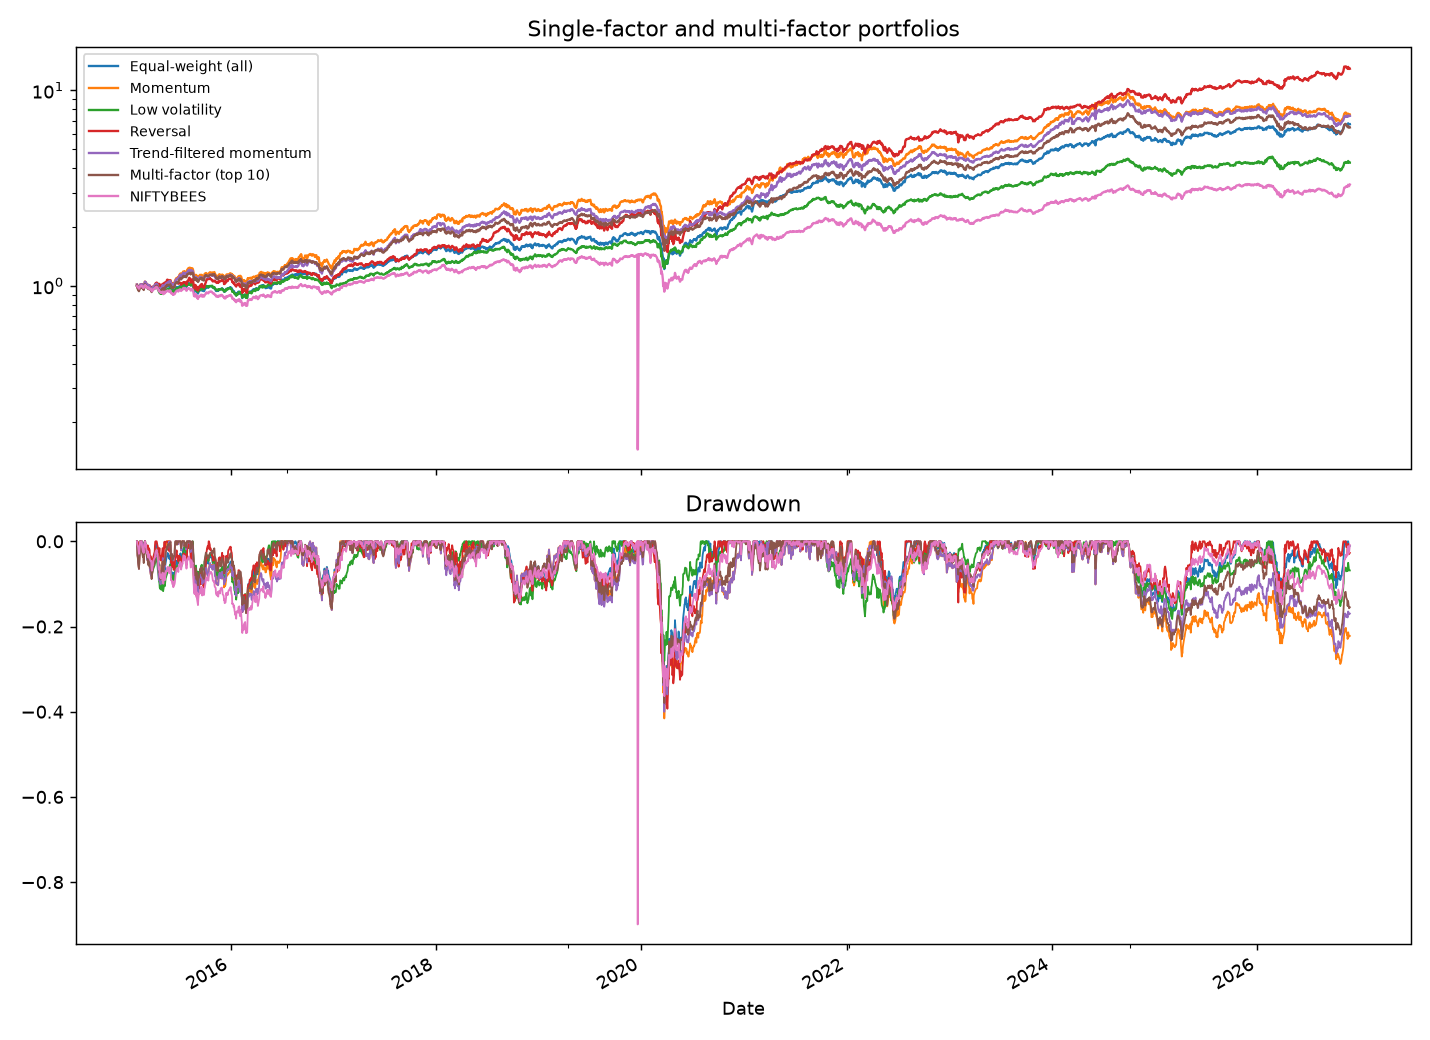
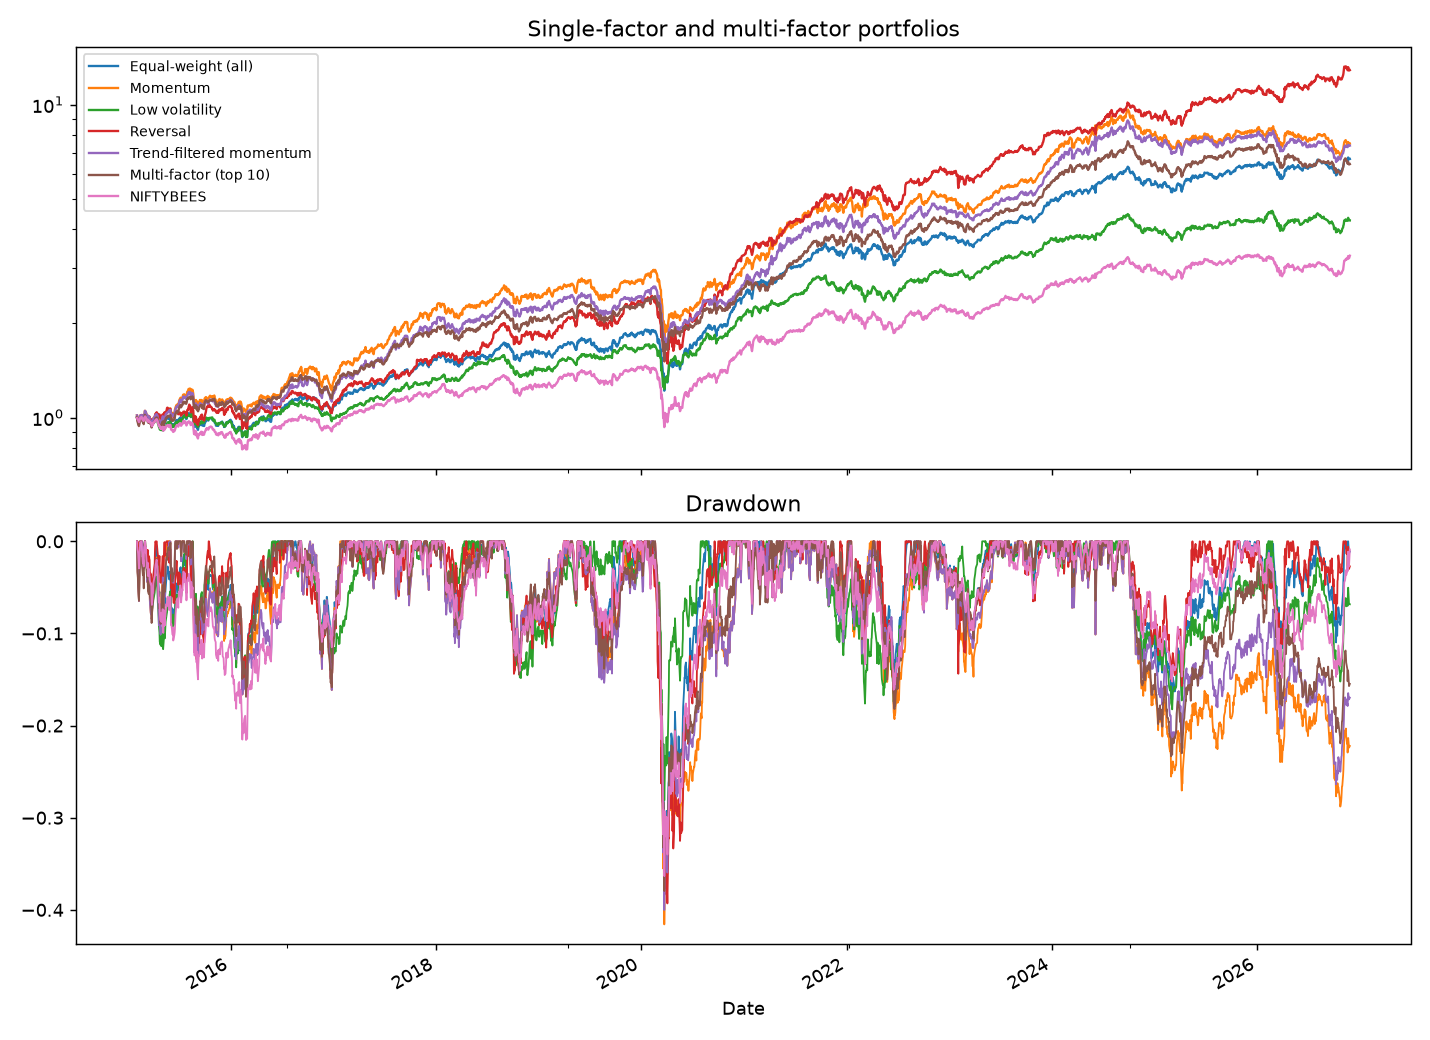
Add files via upload

diff --git a/results/REPORT.md b/results/REPORT.md
@@ -20,7 +20,7 @@
 | MF-20 RiskParity |17.4%|15.1%|0.74|1.02|-33.7%|0.52|822.3%|
 | MF-20 HRP |16.7%|14.8%|0.71|0.99|-32.9%|0.51|928.7%|
 | MF-20 HRP + risk overlay |13.1%|12.5%|0.57|0.77|-24.7%|0.53|928.7%|
-| NIFTYBEES |10.9%|265.4%|0.28|2.63|-89.9%|0.12||
+| NIFTYBEES |10.8%|14.7%|0.37|0.50|-36.3%|0.30||
 
 ![single factors](figures/01_single_factors.png)
 
@@ -35,7 +35,7 @@
 | MF-20 RiskParity |17.4%|15.1%|0.74|-33.7%|0.52|
 | MF-20 HRP |16.7%|14.8%|0.71|-32.9%|0.51|
 | MF-20 HRP + risk overlay |13.1%|12.5%|0.57|-24.7%|0.53|
-| NIFTYBEES |10.9%|265.4%|0.28|-89.9%|0.12|
+| NIFTYBEES |10.8%|14.7%|0.37|-36.3%|0.30|
 
 ![construction methods](figures/02_construction_methods.png)
 
@@ -44,18 +44,18 @@
 
 | |Alpha (ann.)|Alpha t-stat|Beta|Tracking error|Information ratio|Up capture|Down capture|
 |---|---|---|---|---|---|---|---|
-| Equal-weight (all) |11.5%|2.40|0.00|265.1%|-0.24|0.56|0.88|
-| Momentum |13.1%|2.27|0.00|265.2%|-0.23|0.59|0.93|
-| Low volatility |7.3%|1.72|0.00|265.2%|-0.25|0.43|0.68|
-| Reversal |17.8%|3.15|0.00|265.2%|-0.22|0.61|0.91|
-| Trend-filtered momentum |12.9%|2.30|0.00|265.2%|-0.23|0.56|0.88|
-| Multi-factor (top 10) |11.4%|2.18|0.00|265.1%|-0.24|0.53|0.84|
-| MF-20 EW |11.5%|2.41|0.00|265.1%|-0.24|0.53|0.83|
-| MF-20 MinVar |9.3%|2.18|0.00|265.1%|-0.25|0.44|0.68|
-| MF-20 MaxSharpe |8.4%|1.70|0.00|265.2%|-0.25|0.47|0.75|
-| MF-20 RiskParity |11.0%|2.42|0.00|265.1%|-0.24|0.50|0.78|
-| MF-20 HRP |10.3%|2.33|0.00|265.1%|-0.24|0.48|0.76|
-| MF-20 HRP + risk overlay |6.9%|1.80|0.00|265.1%|-0.26|0.42|0.67|
+| Equal-weight (all) |6.3%|4.19|1.01|5.6%|1.13|1.05|0.97|
+| Momentum |7.6%|2.28|1.07|11.9%|0.67|1.12|1.03|
+| Low volatility |3.4%|1.46|0.77|8.7%|0.24|0.81|0.75|
+| Reversal |12.1%|3.99|1.09|11.1%|1.14|1.15|1.01|
+| Trend-filtered momentum |7.7%|2.33|1.02|12.0%|0.65|1.06|0.97|
+| Multi-factor (top 10) |6.4%|2.24|0.97|10.0%|0.62|1.00|0.92|
+| MF-20 EW |6.5%|3.19|0.96|7.4%|0.85|1.00|0.91|
+| MF-20 MinVar |5.3%|2.26|0.78|8.9%|0.46|0.83|0.75|
+| MF-20 MaxSharpe |4.1%|1.37|0.85|10.8%|0.30|0.88|0.83|
+| MF-20 RiskParity |6.3%|3.18|0.91|7.3%|0.80|0.94|0.86|
+| MF-20 HRP |5.8%|2.91|0.88|7.4%|0.70|0.91|0.83|
+| MF-20 HRP + risk overlay |3.3%|1.61|0.70|8.2%|0.21|0.79|0.74|
 
 
 ## 4. Risk layer
@@ -84,7 +84,7 @@ Full-sample one-day 95% VaR of MF-20 HRP: -1.35%; CVaR: -2.09%.
 | COVID crash |-34.4%|-35.0%|-40.8%|-37.0%|-31.9%|-23.7%|
 | 2021-22 rate-hike selloff |-16.1%|-14.7%|-15.8%|-13.2%|-13.8%|-11.9%|
 | 2024-25 drawdown |-9.7%|-12.0%|-21.3%|-17.6%|-13.1%|-13.8%|
-| Worst single day |-89.9%|-12.2%|-15.0%|-13.5%|-11.9%|-7.0%|
+| Worst single day |-10.2%|-12.2%|-15.0%|-13.5%|-11.9%|-7.0%|
 
 
 ## 5. Validation
@@ -115,7 +115,7 @@ Full-sample one-day 95% VaR of MF-20 HRP: -1.35%; CVaR: -2.09%.
 | Walk-forward momentum (OOS) |14.7%|18.7%|0.51|-41.6%|
 | Fixed 252d/top10 momentum |14.9%|20.2%|0.49|-41.6%|
 | Equal-weight (all) |18.3%|16.5%|0.74|-36.3%|
-| NIFTYBEES |11.7%|307.3%|0.32|-89.9%|
+| NIFTYBEES |11.7%|15.2%|0.41|-36.3%|
 
 | |Test period start|Chosen params|Train Sharpe (daily)|
 |---|---|---|---|
@@ -133,12 +133,12 @@ Full-sample one-day 95% VaR of MF-20 HRP: -1.35%; CVaR: -2.09%.
 
 | |Sharpe|5th pct|95th pct|P(Sharpe > benchmark)|
 |---|---|---|---|---|
-| NIFTYBEES |0.28|-0.05|0.73||
-| Equal-weight (all) |0.74|0.22|1.29|0.94|
-| Momentum |0.68|0.19|1.19|0.91|
-| Multi-factor (top 10) |0.67|0.17|1.21|0.90|
-| MF-20 HRP |0.71|0.21|1.26|0.93|
-| MF-20 HRP + risk overlay |0.57|0.05|1.13|0.81|
+| NIFTYBEES |0.37|-0.15|0.92||
+| Equal-weight (all) |0.74|0.22|1.29|1.00|
+| Momentum |0.68|0.19|1.19|0.96|
+| Multi-factor (top 10) |0.67|0.17|1.21|0.96|
+| MF-20 HRP |0.71|0.21|1.26|0.99|
+| MF-20 HRP + risk overlay |0.57|0.05|1.13|0.87|
 
 **Calendar-year returns:**
 
@@ -147,7 +147,7 @@ Full-sample one-day 95% VaR of MF-20 HRP: -1.35%; CVaR: -2.09%.
 
 ## 6. Automatic observations (read critically)
 
-- Highest full-sample Sharpe: **Reversal** (0.93) vs benchmark 0.28. Picking the best of many strategies in-sample overstates its true skill (multiple testing).
+- Highest full-sample Sharpe: **Reversal** (0.93) vs benchmark 0.37. Picking the best of many strategies in-sample overstates its true skill (multiple testing).
 
 - Strategies with higher Sharpe than the benchmark: 12 of 12.
 
